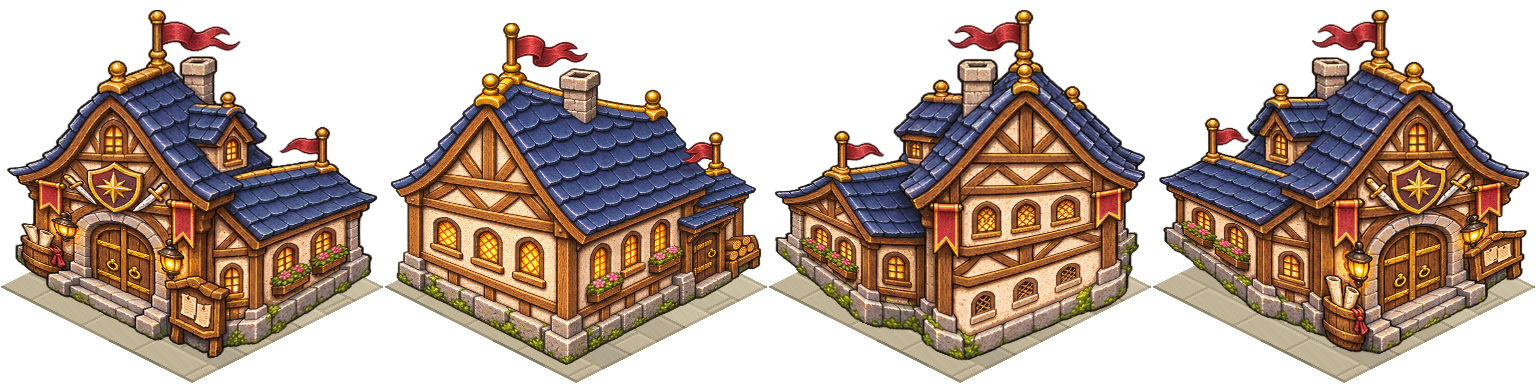
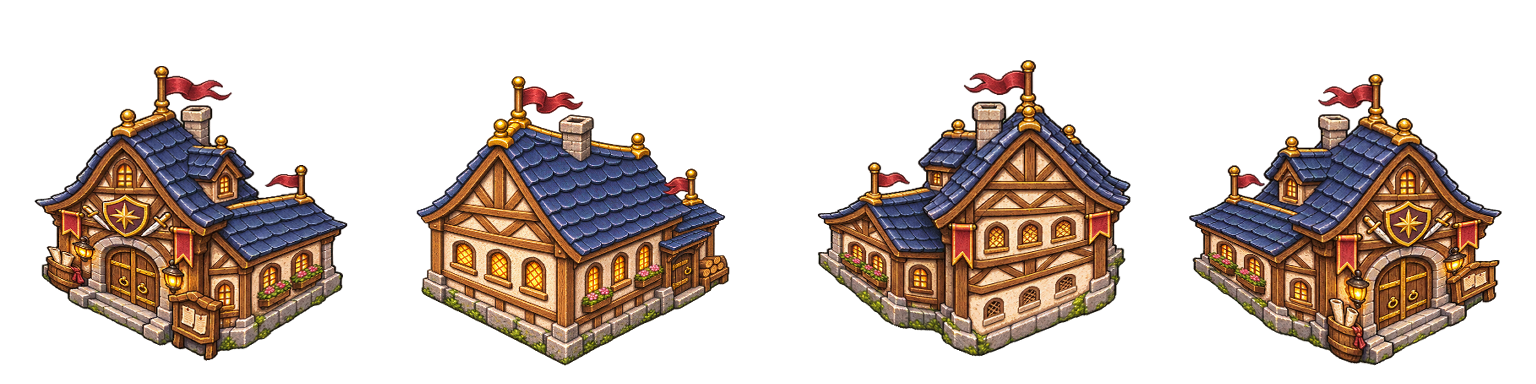
Fit all affected town supports and preserve illustrated scenery across rotations

diff --git a/work/town-foundations-12585/register.py b/work/town-foundations-12585/register.py
@@ -5,10 +5,12 @@ from pathlib import Path
 
 import numpy as np
 from PIL import Image
+import seating
 from scipy.ndimage import gaussian_filter1d, map_coordinates, maximum_filter1d, median_filter
 
 ROOT = Path(__file__).resolve().parents[2]
 CONTACTS = json.loads(Path(__file__).with_name('contacts.json').read_text())
+SUPPORTS = json.loads(Path(__file__).with_name('supports.json').read_text())
 
 
 def silhouette(image):
@@ -21,21 +23,31 @@ def geometry(image, anchors, size):
     w, h = image.size
     left, front, right = np.array(anchors) * w / 100
     # Reserve room for the sign or roof projecting beyond the base at either end.
-    side = max(.035, .5*left/front + .009, .5*(w-right)/(w-front) + .009)
     contact_x = np.array([left, front, right])
     contact_y = np.interp(contact_x, np.arange(w)+.5,
                           median_filter(silhouette(image), size=3))
     x = np.arange(size) + .5
-    centre = size / 2
-    sx = np.where(x < centre, front + (x-centre)*(front-left)/((.5-side)*size),
-                  front + (x-centre)*(right-front)/((.5-side)*size))
+    # A shop with a recessed side wing is a rectangle inside its square lot.
+    # Fit its two visible returns separately and keep the side wall's windows
+    # and wheels proportional. Ground coordinates (u,v) span 0..1 on each axis.
+    lengths = np.array([front-left, right-front])
+    spans = (lengths/max(lengths))**.38
+    # Constrain the actual overhang, including the hanging sign on the short side.
+    left_extent = -.21*(spans[0]-spans[1]) + spans[0]*.5*(1+left/lengths[0])
+    right_extent = .21*(spans[0]-spans[1]) + spans[1]*.5*(1+(w-right)/lengths[1])
+    spans *= min(.965,.491/left_extent,.491/right_extent)
+    u1, v1 = spans + .58*(1-spans)
+    corner_x = (.5 + (u1-v1)/2)*size
+    corner_y = (.5 + (u1+v1)/4)*size
+    sx = np.where(x < corner_x, front+(x-corner_x)*(front-left)/(.5*spans[0]*size),
+                  front+(x-corner_x)*(right-front)/(.5*spans[1]*size))
     floor = np.interp(sx, contact_x, contact_y)
     for pick, a, b in [(sx<left, 0, 1), (sx>right, 1, 2)]:
         floor[pick] = contact_y[a] + (sx[pick]-contact_x[a]) * (
             contact_y[b]-contact_y[a]) / (contact_x[b]-contact_x[a])
-    far = size/2 + abs(x-centre)/2
-    near = size - abs(x-centre)/2
-    target = near - side*size/2
+    far = size/2 + abs(x-size/2)/2
+    near = size - abs(x-size/2)/2
+    target = corner_y - abs(x-corner_x)/2
     # Keep the sill, crates and steps in relief. Only curb local deviations that
     # would put real supports outside the far or near edge. Suspended signs keep
     # their original height relative to their wall.
@@ -53,7 +65,7 @@ def geometry(image, anchors, size):
     target -= maximum_filter1d(np.maximum(excess,0.), 3)
     # Warp the lower walls gently while preserving the roof elevation, the
     # vertical timber lines and the original shading of the source painting.
-    top = max(.021*size, (.987-side/2)*size-scale*contact_y[1])
+    top = max(.021*size, max(target)-.013*size-scale*contact_y[1])
     y = np.arange(size)[:,None]+.5
     progress = np.clip(((y-top)/(target-top)-.38)/.62, 0, 1)
     blend = progress**2*(3-2*progress)
@@ -76,19 +88,24 @@ def main():
     ap=argparse.ArgumentParser(description=__doc__)
     ap.add_argument('--sources',type=Path,default=Path(__file__).with_name('masters'),
                     help='Lossless sheets containing four trimmed paintings in equal cells')
-    ap.add_argument('--only',nargs='+',choices=CONTACTS)
+    ap.add_argument('--only',nargs='+',choices=[*CONTACTS,*SUPPORTS])
     ap.add_argument('--output',type=Path,default=ROOT/'assets/town-axis/painted')
     args=ap.parse_args()
     args.output.mkdir(exist_ok=True,parents=True)
-    for key in args.only or CONTACTS:
+    for key in args.only or [*CONTACTS,*SUPPORTS]:
         n=384 if key in ('starTerrace','guild212') else 256
         sheet=Image.new('RGBA',(n*4,n))
         with Image.open(args.sources/f'{key}.webp') as master:
             cell = master.width//4
-            for face,anchors in enumerate(CONTACTS[key]):
-                frame=master.crop((cell*face,0,cell*(face+1),master.height))
-                src=frame.crop(frame.getchannel('A').getbbox())
-                sheet.paste(register(src,anchors,n),(face*n,0))
+            frames=[master.crop((face*cell,0,(face+1)*cell,master.height)) for face in range(4)]
+            if key in CONTACTS:
+                views=[register(frame.crop(frame.getchannel('A').getbbox()),anchors,n)
+                       for frame,anchors in zip(frames,CONTACTS[key])]
+            else:
+                placements=seating.fit(frames,SUPPORTS[key])
+                views=[seating.apply(frame,placement) for frame,placement in zip(frames,placements)]
+            for face, view in enumerate(views):
+                sheet.paste(view,(face*n,0))
         sheet.save(args.output/f'{key}.webp', lossless=True, method=6, exact=True)
 
 if __name__=='__main__':

diff --git a/work/town-foundations-12585/check_game.py b/work/town-foundations-12585/check_game.py
@@ -1,0 +1,72 @@
+"""Measure painted supports against the game's four ground edges in a temporary browser."""
+import argparse
+import json
+from pathlib import Path
+from playwright.sync_api import sync_playwright
+
+ROOT=Path(__file__).resolve().parents[2]
+HOOK='claimSave12556();\nconst didLoad=load();'
+EXPOSE='window.plotTest=(expression,args)=>eval(expression);\n'
+CHECK="""(()=>{
+ const [type,f,columns,compact]=args;
+ const b={type,x:3,y:4,facing:f,level:1};
+ const m=buildingOf(b),rect=plotImageRect(b),ink=townMapArt(b,f,true,0),n=ink.width;
+ const rgba=ink.getContext('2d').getImageData(0,0,n,n).data;
+ const bottom=new Int32Array(n).fill(-1);
+ for(let y=0;y<n;y++)for(let x=0;x<n;x++)if(rgba[(n*y+x)*4+3]>127)bottom[x]=y;
+ let contacts=0,farMargin=Infinity,nearMargin=Infinity,skirt=0;
+ for(let x=0;x<n;x++){
+   if(bottom[x]<0)continue;
+   const p=unprojectGround(rect.x+(x+.5)*rect.w/n,rect.y+(bottom[x]+.5)*rect.h/n);
+   // Express each signed edge distance in vertical pixels of the registered sprite.
+   const unit=n*T/(2*rect.w);
+   const back=Math.min(p.x-b.x,p.y-b.y)*unit,front=Math.min(b.x+m.w-p.x,b.y+m.h-p.y)*unit;
+   nearMargin=Math.min(nearMargin,front);
+   if(columns.some(([a,z])=>a<=x&&x<=z)){
+     farMargin=Math.min(farMargin,back);contacts++;
+   }
+   if(front<1.65)skirt++;
+ }
+ // An opaque diamond underneath the art would mask a floating plinth.
+ const allowance=compact?1.6:.6;
+ if(!contacts||farMargin < -allowance||nearMargin < -allowance||skirt>n*.55)
+   throw Error(JSON.stringify({type,f,contacts,farMargin,nearMargin,skirt}));
+ return [contacts,farMargin,nearMargin];
+})()"""
+
+
+def check(chromium,compact):
+    version=ROOT/'releases/1.25.85'
+    source=(version/('launcher-game.html' if compact else 'game.html')).read_text()
+    spans=json.loads(Path(__file__).with_name('contact-checks.json').read_text())
+    with sync_playwright() as pw:
+        browser=pw.chromium.launch(executable_path=chromium,args=['--no-sandbox'])
+        page=browser.new_page(viewport={'width':390 if compact else 1240,'height':844})
+        errors=[]
+        page.on('pageerror',lambda e:errors.append(str(e)))
+        if compact:
+            page.add_init_script('const original=Document.prototype.write;Document.prototype.write=function(...args){'
+              'if(typeof args[0]==="string")args[0]=args[0].replace('+json.dumps(HOOK)+',()=>'
+              +json.dumps(EXPOSE+HOOK)+');return original.apply(this,args)}')
+        else:
+            assert source.count(HOOK)==1
+            source=source.replace(HOOK,EXPOSE+HOOK)
+        page.route('http://plot.test/**',lambda r:r.fulfill(body=source,content_type='text/html; charset=utf-8')
+                   if r.request.url.endswith('/game.html') else r.abort())
+        page.goto('http://plot.test/game.html',timeout=90000)
+        page.wait_for_function("typeof plotTest==='function'",timeout=65000)
+        measurements=[page.evaluate('([code,args])=>plotTest(code,args)',[CHECK,[key,f,ranges,compact]])
+                      for key,faces in spans.items() for f,ranges in enumerate(faces)]
+        assert len(measurements)==60 and not errors,errors
+        print(('Compact' if compact else 'Web'),len(measurements),'views,',
+              sum(x[0] for x in measurements),'contact columns, minimum back/front clearance',
+              min(x[1] for x in measurements),min(x[2] for x in measurements),flush=True)
+        browser.close()
+
+
+if __name__=='__main__':
+    ap=argparse.ArgumentParser(description=__doc__);ap.add_argument('--chromium')
+    ap.add_argument('--edition',choices=['web','launcher','both'],default='both')
+    args=ap.parse_args()
+    if args.edition!='launcher':check(args.chromium,False)
+    if args.edition!='web':check(args.chromium,True)

diff --git a/work/town-foundations-12585/build.py b/work/town-foundations-12585/build.py
@@ -1,0 +1,45 @@
+"""Rebuild the 1.25.85 editions from the published 1.25.84 editions."""
+import argparse
+import importlib.util
+import json
+from pathlib import Path
+
+ROOT=Path(__file__).resolve().parents[2]
+OLD=ROOT/'releases/1.25.84'
+DEST=ROOT/'releases/1.25.85'
+spec=importlib.util.spec_from_file_location('painted',ROOT/'work/painted-town-12584/build.py')
+painted=importlib.util.module_from_spec(spec)
+spec.loader.exec_module(painted)
+
+
+def update(text,compact):
+    assert text.count('1.25.84')==3 and text.count("GAME_APP_VERSION='1.25.84'")==1
+    text=text.replace('1.25.84','1.25.85')
+    text=text.replace('建築15種の原画仕上げ</footer>','建築の土台と道の接地</footer>')
+    start=text.index('const axisAtlas=')
+    end=text.index('// Registered paintings use a common logical canvas',start)
+    details=json.loads((ROOT/'assets/town-axis/painted-details.json').read_text())
+    return (text[:start]+'const axisAtlas='+painted.sprites(compact)+';\nconst paintedDetails='
+            +json.dumps(details,separators=(',',':'))+';\n'+text[end:])
+
+
+def build(edition):
+    DEST.mkdir(exist_ok=True)
+    if edition in ('web','both'):
+        web=update((OLD/'game.html').read_text(),False)
+        (ROOT/'game.html').write_text(web)
+        (DEST/'game.html').write_text(web)
+        print('Web',len(web.encode()),flush=True)
+    if edition in ('launcher','both'):
+        codec=painted.previous
+        source=codec.unpack_launcher((OLD/'launcher-game.html').read_text())
+        packed=codec.pack(update(source,True),binary_assets=True,dictionary=True,zstd_pack=True,
+                          wide_words=True,zstd_level=22,embedded_inflater=True).encode()
+        assert len(packed)<=4*1024**2, f'Updater limit exceeded: {len(packed):,}'
+        (DEST/'launcher-game.html').write_bytes(packed)
+        print('Launcher',len(packed),'/',4*1024**2,flush=True)
+
+if __name__=='__main__':
+    ap=argparse.ArgumentParser(description=__doc__)
+    ap.add_argument('--edition',choices=['web','launcher','both'],default='both')
+    build(ap.parse_args().edition)

diff --git a/work/town-foundations-12585/package.py b/work/town-foundations-12585/package.py
@@ -1,0 +1,25 @@
+"""Carry the previous distribution forward with both editions and their confirmation images."""
+import hashlib,json,re
+from pathlib import Path
+from zipfile import ZipFile, ZipInfo, ZIP_DEFLATED
+root=Path(__file__).resolve().parents[2]
+folder=root/'releases/1.25.85'
+target=folder/'monster-biyori-1.25.85.zip'
+base=root/'releases/1.25.84/monster-biyori-1.25.84.zip'
+compact=(folder/'launcher-game.html').read_bytes()
+replaced={'game.html':compact}
+for name in ['CHANGELOG.md','TESTING.md']:replaced[name]=(folder/name).read_bytes()
+with ZipFile(base) as prev,ZipFile(target,'w') as out:
+    for entry in prev.infolist():
+        out.writestr(entry,replaced[entry.filename] if entry.filename in replaced else prev.read(entry),compresslevel=9)
+    for name in ('CHANGELOG.md','TESTING.md','roads.webp','comparison.webp'):
+        item=ZipInfo('releases/1.25.85/'+name,date_time=(2026,11,28,0,0,0));item.compress_type=ZIP_DEFLATED;item.external_attr=0o100644<<16
+        out.writestr(item,(folder/name).read_bytes(),compresslevel=9)
+manifest=json.loads((root/'latest.json').read_text());manifest.update(version='1.25.85',
+    html_url='https://lion000097.github.io/monster-biyori/releases/1.25.85/launcher-game.html',sha256=hashlib.sha256(compact).hexdigest())
+(root/'latest.json').write_text(json.dumps(manifest,indent=2)+'\n')
+archive=root/'archive.html';html=archive.read_text()
+if 'data-version="1.25.85"' not in html:
+    before=re.search(r'<li data-version="1\.25\.84">.*?</li>',html)[0]
+    entry=re.sub(r'\d+\.\d+ MB',f'{target.stat().st_size/1024**2:.2f} MB',before.replace('1.25.84','1.25.85'))
+    archive.write_text(html.replace(before,entry+'\n'+before.replace(' ・ 現行配布',''),1))

diff --git a/work/town-foundations-12585/seating.py b/work/town-foundations-12585/seating.py
@@ -1,0 +1,42 @@
+"""Seat intact illustrated facilities on the ground using their real supporting edges."""
+import numpy as np
+from PIL import Image
+
+
+def fit(views, supports):
+    """Use one scale in all four orientations, preserving rails, legs and curved steps."""
+    fits=[]
+    scales=[1.]
+    for image, spans in zip(views,supports):
+        size=image.height
+        alpha=np.asarray(image.getchannel('A'))
+        bottom=np.where(alpha>127,np.arange(size)[:,None]+.5,0).max(axis=0)
+        cols=np.concatenate([np.arange(start,end+1) for start,end in spans])
+        x=(cols+.5)/size
+        y=bottom[cols]/size
+        # Inverse of the game's two ground axes. The plot spans 0..1 in u and v.
+        u=2*y-1+x-.5
+        v=2*y-1-x+.5
+        um=(u.min()+u.max())/2
+        vm=(v.min()+v.max())/2
+        anchor_x=.5+(um-vm)/2
+        anchor_y=.5+(um+vm)/4
+        y_ink,x_ink=np.nonzero(alpha>0)
+        x_ink=(x_ink+.5)/size
+        y_ink=(y_ink+.5)/size
+        scales.extend((.968/np.ptp(u),.968/np.ptp(v),
+                       .495/max(abs(x_ink-anchor_x)),.745/(anchor_y-y_ink.min()),
+                       .248/(y_ink.max()-anchor_y)))
+        fits.append((anchor_x,anchor_y))
+    scale=min(scales)
+    return [(scale,.5-scale*x,.75-scale*y) for x,y in fits]
+
+
+def apply(image, placement):
+    scale,dx,dy=placement
+    size=image.height
+    if abs(scale-1)+abs(dx)+abs(dy)<1e-9:
+        return image.copy()
+    inverse=(1/scale,0,-dx*size/scale,0,1/scale,-dy*size/scale)
+    return image.convert('RGBa').transform(image.size,Image.Transform.AFFINE,inverse,
+                                            Image.Resampling.BICUBIC).convert('RGBA')

diff --git a/releases/1.25.85/PROGRESS.md b/releases/1.25.85/PROGRESS.md
@@ -6,3 +6,12 @@
 - 確認結果　旧版では四角い背景を含めて手前の辺しか調べていなかった。今回は背景を外し、土台そのものの左右から手前にかけて奥側・手前側の両方の境界を照合。指摘の3棟の新しい12方向で接地を確認。
 - 残作業　同じ原因が見つかったほかの向きの修正、時間・季節の表示位置、両版のセーブと実際の道沿いでの検証、公開。
 - 次の操作　ほかの建築の接地点と、棚の脚を個別に確認する。
+
+## 共通するずれと表示差分
+
+- 対象バージョン　1.25.85
+- 保存先　`work/town-foundations-12585/masters/` に元の絵、同ディレクトリの `contacts.json`・`supports.json` に土台と脚の位置、`assets/town-axis/painted/` に13種の完成画像を保存。
+- 完了事項　指摘の3棟は元絵の壁の奥行きを残して接地。ほかに同じずれが出た10種は、4方向で統一した縮尺で元の絵の形を保ったまま敷地に収めた。店頭展示、たまご、瓶の季節、傘、ギルドの旗の位置を絵に合わせた。
+- 確認結果　手前・奥の両側から原画の足元を計測。棚2種は元の絵のまま脚が収まることを確認。全15種60方向、計10,248列の脚・基礎・階段を検査し、指定範囲のはみ出しは0。
+- 残作業　ゲーム内の道沿い、通常版・軽量版の操作、旧セーブと公開の確認。
+- 次の操作　ゲームが実際に描いた画像で四辺を調べ、赤丸と同じ向きの修正前後を比較する。
